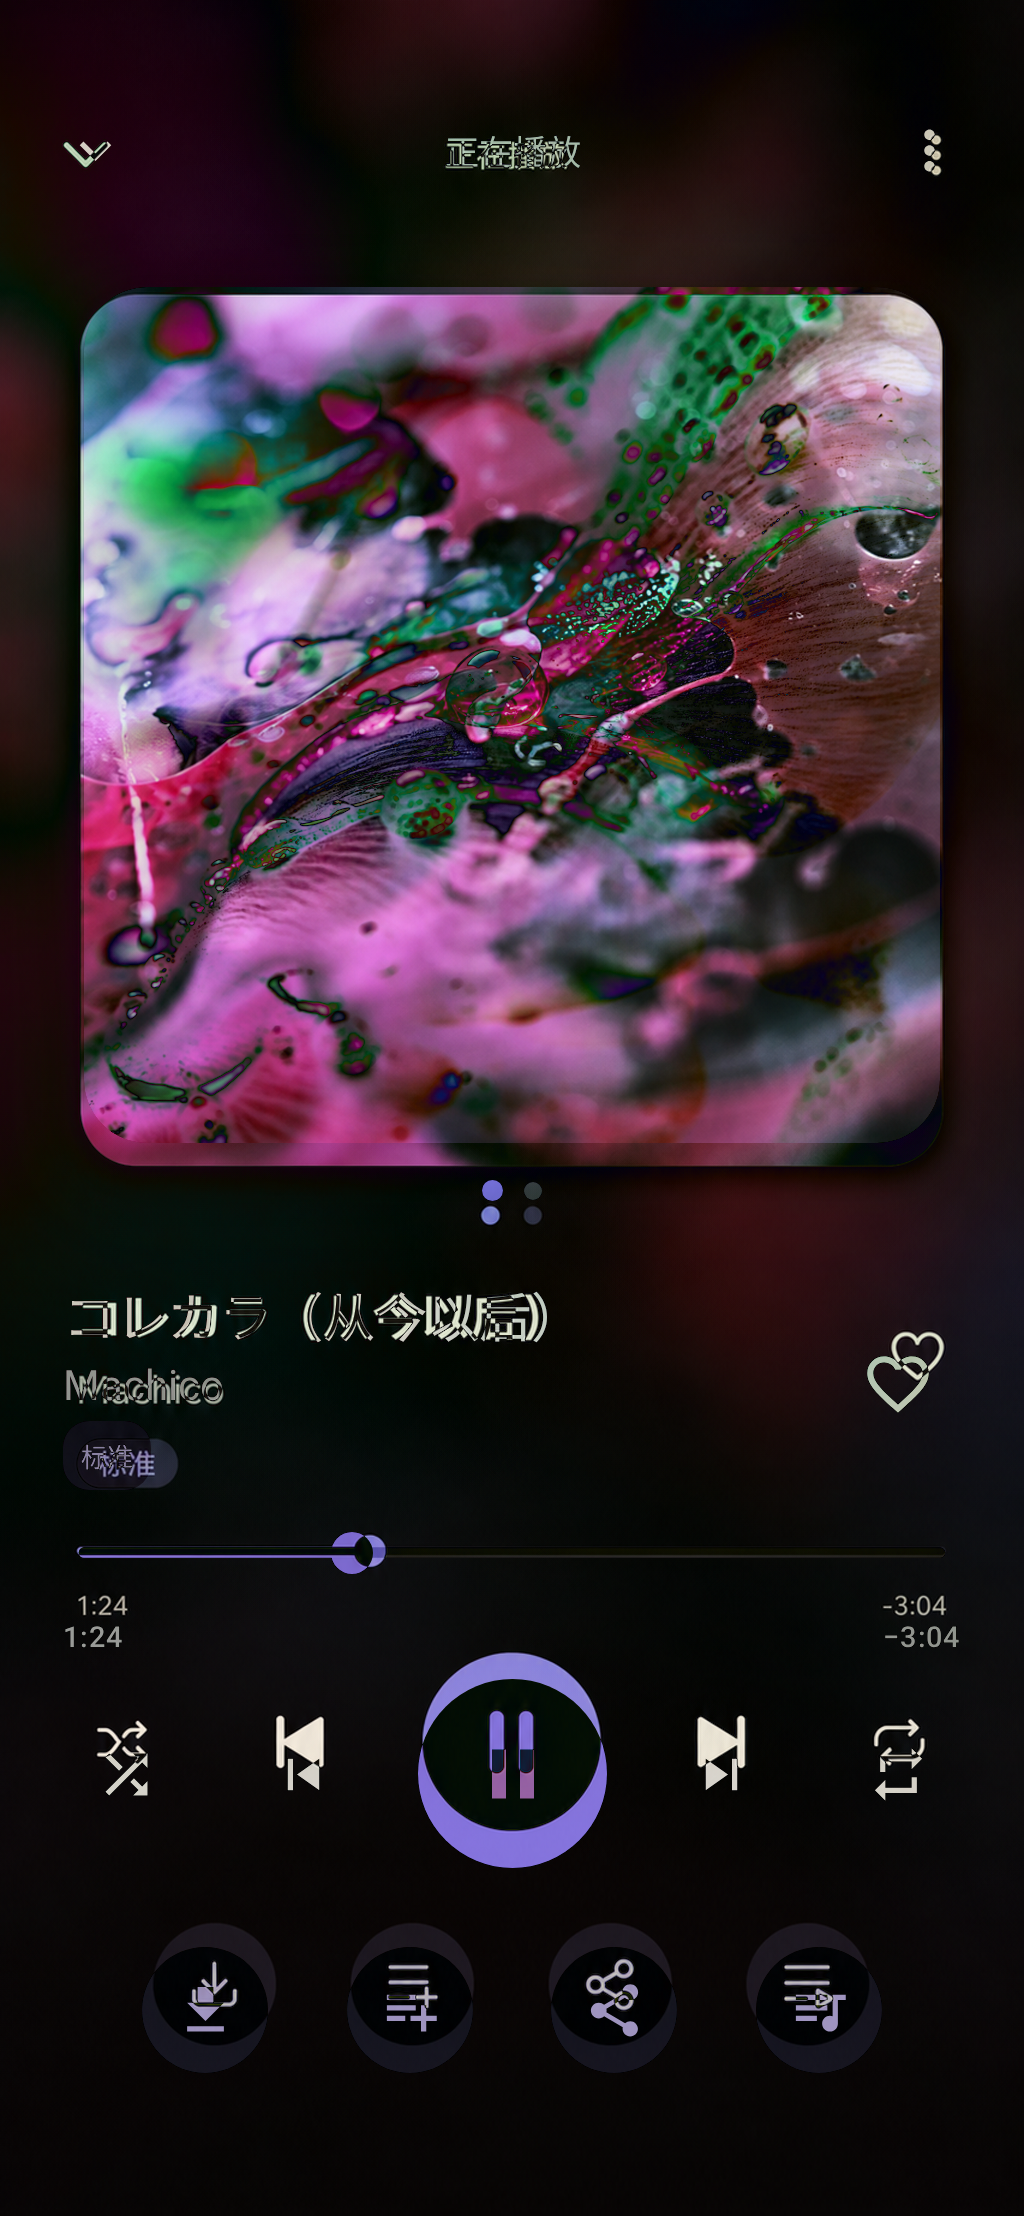
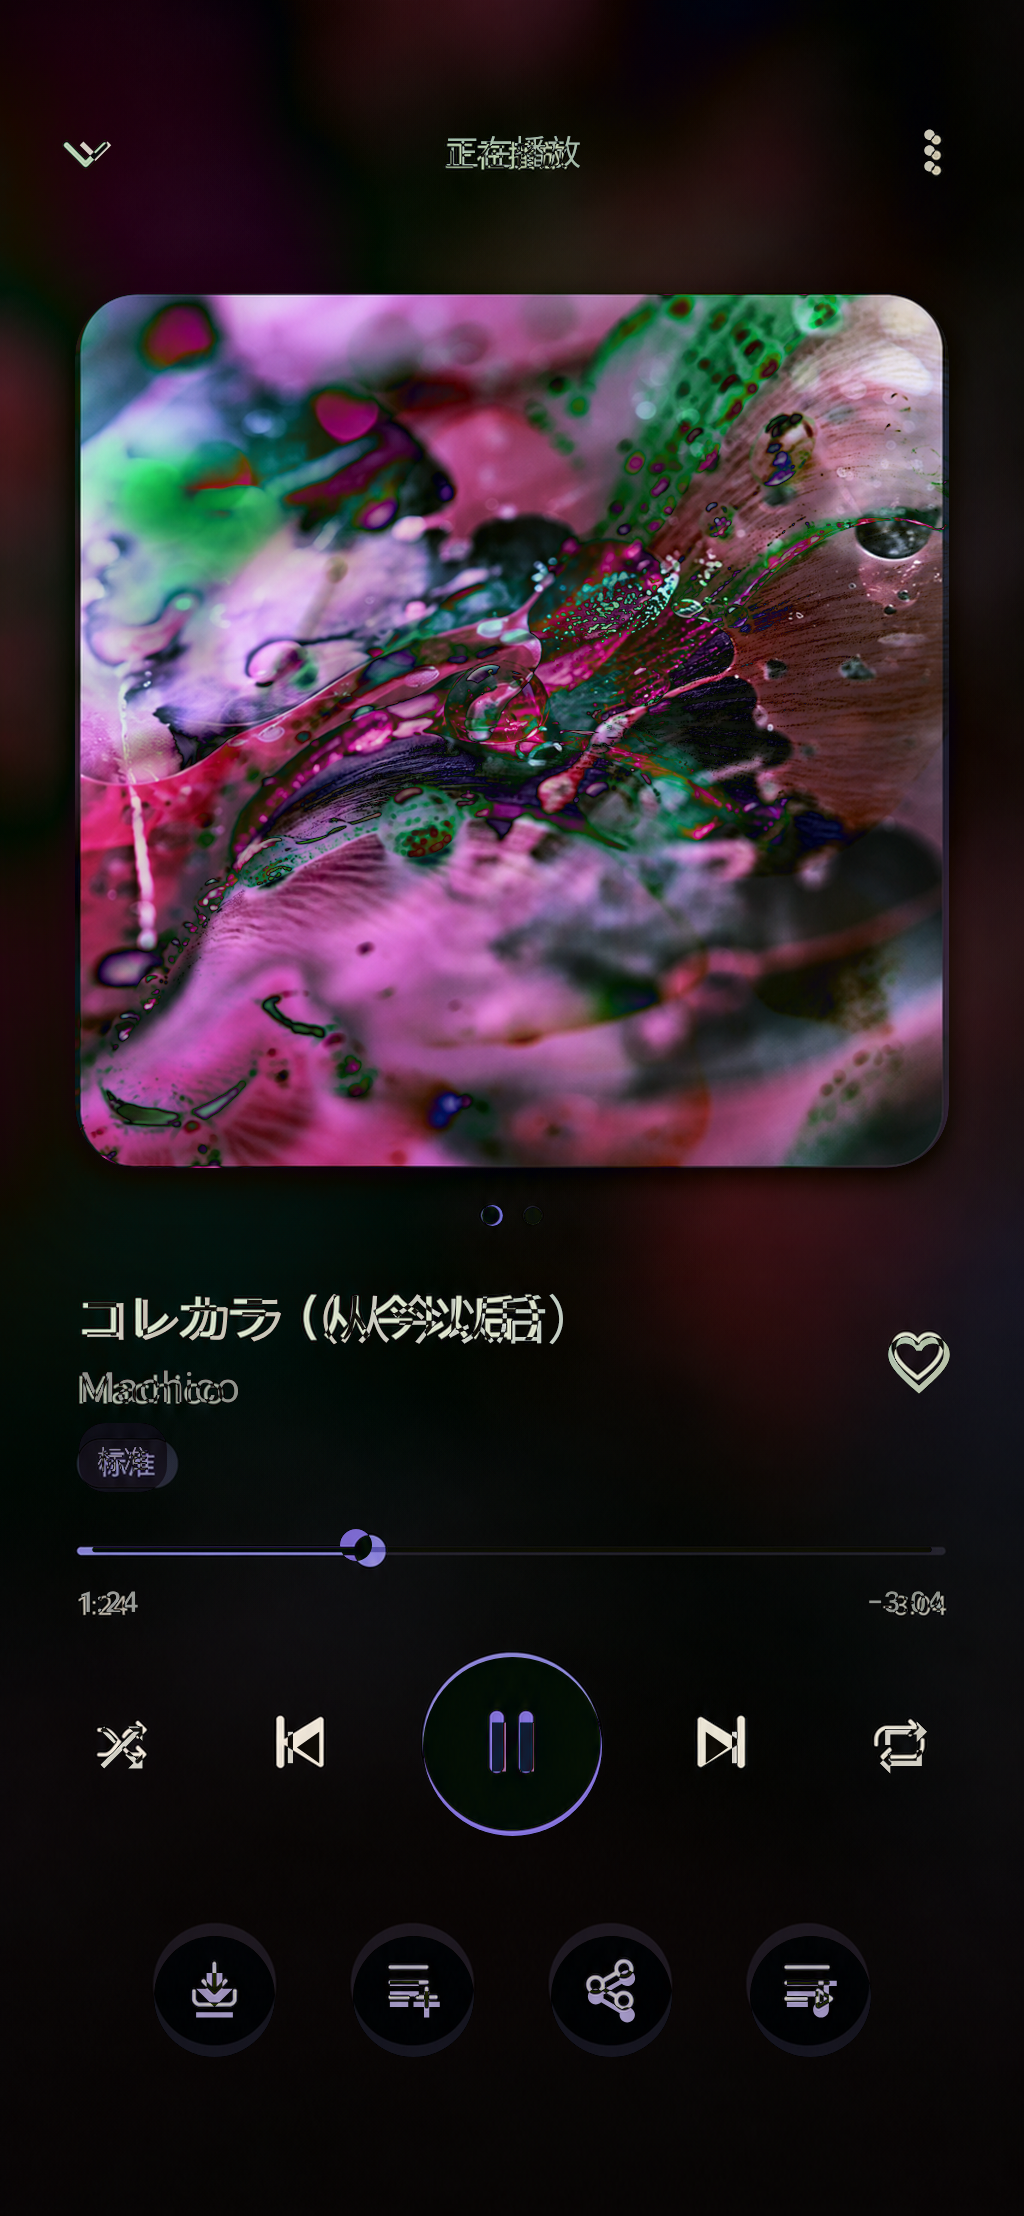
fix(player): align cover page with confirmed design

diff --git a/feature/player/src/main/kotlin/cn/james/music/feature/player/PlayerScreen.kt b/feature/player/src/main/kotlin/cn/james/music/feature/player/PlayerScreen.kt
@@ -15,6 +15,7 @@ import androidx.compose.foundation.layout.fillMaxSize
 import androidx.compose.foundation.layout.fillMaxWidth
 import androidx.compose.foundation.layout.height
 import androidx.compose.foundation.layout.navigationBars
+import androidx.compose.foundation.layout.offset
 import androidx.compose.foundation.layout.padding
 import androidx.compose.foundation.layout.size
 import androidx.compose.foundation.layout.statusBars
@@ -303,10 +304,10 @@ private fun PlayerCoverPage(
     artworkContent: (@Composable (PlaybackItem) -> Unit)?,
 ) {
     Column(modifier = Modifier.fillMaxSize().verticalScroll(rememberScrollState())) {
-        Spacer(Modifier.height(20.dp))
+        Spacer(Modifier.height(23.dp))
         PlayerArtwork(item = item, artworkContent = artworkContent, modifier = Modifier.fillMaxWidth())
         PlayerPageIndicator(activePage = activePage)
-        Spacer(Modifier.height(15.dp))
+        Spacer(Modifier.height(6.dp))
         PlayerControls(
             state = state,
             progress = progress,
@@ -665,7 +666,7 @@ private fun PlayerArtwork(
             null -> null
         }
     BoxWithConstraints(
-        modifier = modifier.padding(horizontal = MoeKoeTheme.spacing.extraLarge),
+        modifier = modifier.padding(horizontal = 28.5.dp),
         contentAlignment = Alignment.TopCenter,
     ) {
         val artworkSize = maxWidth.coerceAtMost(333.dp)
@@ -717,9 +718,12 @@ private fun PlayerControls(
         modifier =
             Modifier
                 .fillMaxWidth()
-                .padding(horizontal = if (compactLayout) 26.dp else MoeKoeTheme.spacing.large),
+                .padding(horizontal = if (compactLayout) 26.dp else 22.dp),
     ) {
-        Row(verticalAlignment = Alignment.CenterVertically) {
+        Row(
+            modifier = Modifier.padding(horizontal = if (compactLayout) 0.dp else 8.dp),
+            verticalAlignment = Alignment.CenterVertically,
+        ) {
             Column(modifier = Modifier.weight(1f)) {
                 Text(
                     text = item.title,
@@ -739,7 +743,13 @@ private fun PlayerControls(
                 )
                 PlayerQualityBadge(compact = compactLayout)
             }
-            IconButton(onClick = onFavorite, modifier = Modifier.size(MoeKoeTheme.dimensions.minimumTouchTarget)) {
+            IconButton(
+                onClick = onFavorite,
+                modifier =
+                    Modifier
+                        .size(MoeKoeTheme.dimensions.minimumTouchTarget)
+                        .then(if (compactLayout) Modifier else Modifier.offset(x = 14.dp, y = (-8).dp)),
+            ) {
                 Icon(
                     imageVector = Icons.Default.FavoriteBorder,
                     contentDescription = stringResource(R.string.player_favorite),
@@ -747,15 +757,17 @@ private fun PlayerControls(
                 )
             }
         }
-        PlayerProgress(
-            progress = progress,
-            itemId = item.id,
-            enabled = state.controlsEnabled,
-            onSeek = onSeek,
-            compact = compactLayout,
-        )
+        Column(modifier = Modifier.padding(horizontal = if (compactLayout) 0.dp else 8.dp)) {
+            PlayerProgress(
+                progress = progress,
+                itemId = item.id,
+                enabled = state.controlsEnabled,
+                onSeek = onSeek,
+                compact = compactLayout,
+            )
+        }
         Row(
-            modifier = Modifier.fillMaxWidth().height(if (compactLayout) 76.dp else 88.dp),
+            modifier = Modifier.fillMaxWidth().height(if (compactLayout) 76.dp else 82.dp),
             horizontalArrangement = Arrangement.SpaceBetween,
             verticalAlignment = Alignment.CenterVertically,
         ) {
@@ -764,7 +776,7 @@ private fun PlayerControls(
             Surface(
                 onClick = onTogglePlayback,
                 enabled = state.controlsEnabled,
-                modifier = Modifier.size(if (compactLayout) 68.dp else 72.dp),
+                modifier = Modifier.size(68.dp),
                 shape = CircleShape,
                 color =
                     if (state.controlsEnabled) {
@@ -834,7 +846,7 @@ private fun PlayerSecondaryActions(
     onOpenQueue: () -> Unit,
 ) {
     Row(
-        modifier = Modifier.fillMaxWidth().padding(top = 8.dp).height(76.dp),
+        modifier = Modifier.fillMaxWidth().padding(horizontal = 8.dp).padding(top = 18.dp).height(72.dp),
         horizontalArrangement = Arrangement.SpaceEvenly,
         verticalAlignment = Alignment.CenterVertically,
     ) {
@@ -851,15 +863,19 @@ private fun PlayerSecondaryAction(
     label: Int,
     onClick: () -> Unit,
 ) {
-    Surface(
-        onClick = onClick,
-        modifier = Modifier.size(48.dp),
-        shape = CircleShape,
-        color = PlayerSecondaryContainer,
-        contentColor = PlayerSecondaryContent,
+    Box(
+        modifier = Modifier.size(48.dp).clickable(onClick = onClick),
+        contentAlignment = Alignment.Center,
     ) {
-        Box(contentAlignment = Alignment.Center) {
-            Icon(icon, stringResource(label), modifier = Modifier.size(24.dp))
+        Surface(
+            modifier = Modifier.size(46.dp),
+            shape = CircleShape,
+            color = PlayerSecondaryContainer,
+            contentColor = PlayerSecondaryContent,
+        ) {
+            Box(contentAlignment = Alignment.Center) {
+                Icon(icon, stringResource(label), modifier = Modifier.size(24.dp))
+            }
         }
     }
 }
@@ -888,11 +904,15 @@ private fun PlayerProgress(
         },
         valueRange = 0f..duration.coerceAtLeast(1).toFloat(),
         enabled = enabled && duration > 0,
-        modifier = Modifier.fillMaxWidth().then(if (compact) Modifier.height(34.dp) else Modifier),
+        modifier =
+            Modifier
+                .fillMaxWidth()
+                .height(if (compact) 34.dp else 40.dp)
+                .then(if (compact) Modifier else Modifier.offset(y = 2.dp)),
         thumb = {
             Box(
                 Modifier
-                    .size(16.dp)
+                    .size(if (compact) 16.dp else 12.dp)
                     .background(
                         color = if (enabled && duration > 0) activeColor else activeColor.copy(alpha = 0.38f),
                         shape = CircleShape,
@@ -904,10 +924,14 @@ private fun PlayerProgress(
                 progress = sliderState.value / duration.coerceAtLeast(1).toFloat(),
                 activeColor = if (enabled && duration > 0) activeColor else activeColor.copy(alpha = 0.38f),
                 inactiveColor = if (enabled && duration > 0) inactiveColor else inactiveColor.copy(alpha = 0.38f),
+                compact = compact,
             )
         },
     )
-    Row(modifier = Modifier.fillMaxWidth(), horizontalArrangement = Arrangement.SpaceBetween) {
+    Row(
+        modifier = Modifier.fillMaxWidth().then(if (compact) Modifier else Modifier.offset(y = (-6).dp)),
+        horizontalArrangement = Arrangement.SpaceBetween,
+    ) {
         PlayerTime(shownPosition, valid = duration > 0)
         PlayerTime((duration - shownPosition).coerceAtLeast(0), valid = duration > 0, remaining = true)
     }
@@ -918,10 +942,12 @@ private fun PlayerProgressTrack(
     progress: Float,
     activeColor: Color,
     inactiveColor: Color,
+    compact: Boolean,
 ) {
-    Canvas(Modifier.fillMaxWidth().height(4.dp)) {
+    val trackHeight = if (compact) 4.dp else 2.dp
+    Canvas(Modifier.fillMaxWidth().height(trackHeight)) {
         val centerY = size.height / 2f
-        val strokeWidth = 4.dp.toPx()
+        val strokeWidth = trackHeight.toPx()
         drawLine(
             color = inactiveColor,
             start = Offset(0f, centerY),

diff --git a/docs/plans/04-content-and-player-ui.md b/docs/plans/04-content-and-player-ui.md
@@ -35,7 +35,7 @@
 - 通用 MiniPlayer 已按 `17-music-content-components.png` 与 `01-home-material3-v2.png` 的页面壳层完成同视口视觉校准：保留连续底部 Surface，校正封面、紧凑字级、质量徽标、上一首、主色圆形播放暂停、下一首、队列、起止时间与独立进度条；上一首/下一首继续接入既有播放命令，本次不改 `:playback` 状态所有权。浅色、深色、`1.5×` 聚焦截图与设计并排/叠加/差异证据见 [`mini-player-2026-08-08.md`](../design/evidence/mini-player-2026-08-08.md)，四项操作语义区域继续保持不小于 `48dp`。
 - Search/LocalMusic 截图验证、相关 JVM 单测、Debug 构建与 `MainActivityTest` 真机回归 6/6 通过；真机手动搜索并播放在线歌曲后，MiniPlayer、恢复为暂停状态和队列 Bottom Sheet 均已检查。
 - 已在 `06` 至 `08` 号确认设计图之后建立 [`player-flow`](../design/prototypes/player-flow/README.md) 本地交互原型，并验证封面/歌词双页、点击歌词定位、暂无歌词、纵向退出、队列覆盖层和“先关队列、再退出播放器”的返回优先级；原型不定义 Compose 视觉或协议行为。
-- 独立 `:feature:player` 全屏封面目的地已按 [`PLAYER_LAYOUT_SPEC.md`](../design/PLAYER_LAYOUT_SPEC.md) 和 `06-player-cover.png` 完成视觉复刻：补齐更多、分页点、品质、收藏、下载、加歌单、分享及独立队列动作，封面改为真实本地预览位图，播放/暂停、进度、上下首、模式和队列继续复用既有接线；其余次级动作只保留视觉语义。9 组截图、设计对照证据及 ELE-AL00 / API 29 App instrumentation 24/24 通过。
+- 独立 `:feature:player` 全屏封面目的地已按 [`PLAYER_LAYOUT_SPEC.md`](../design/PLAYER_LAYOUT_SPEC.md) 和 `06-player-cover.png` 完成第二轮同画布复核：纠正旧证据遗漏的封面锚点、歌曲信息边距、收藏位置、进度细节、核心控制节奏和次级动作密度；播放/暂停、进度、上下首、模式和队列继续复用既有接线，其余次级动作只保留视觉语义，不在本 UI 切片接业务。
 - 播放页仅消费 `:app` 映射的不可变 UI 状态和事件，不直接依赖 `:playback`；高频进度由独立 `State` 交给进度子组合读取。标准视口不依赖尺寸分档，只有内容实际溢出时允许纵向滚动。
 - 全屏封面已覆盖正常、暂停、缓冲、控制器未连接、封面失败、未知时长、空播放项及 `1.5×`/`2.0×` 字体截图基准；真机导航、手势、队列返回优先级和播放命令仍待用户手动验收。
 - 歌词协议、KRC 解包、成熟解析库、成功缓存、取消和失败恢复已完成独立 [`12-kugou-lyrics`](../reference-audits/12-kugou-lyrics.md) 审计；`07-player-lyrics.png` 与 `23a` 至 `23h` 加载、空、离线、错误和大字体状态均已确认，并已形成独立 [`PLAYER_LYRICS_LAYOUT_SPEC.md`](../design/PLAYER_LYRICS_LAYOUT_SPEC.md) 视觉合同。歌词 Compose 先按全部确认稿完成纯 UI 和截图，再单独接入歌词状态与交互。

diff --git a/docs/design/PLAYER_LAYOUT_SPEC.md b/docs/design/PLAYER_LAYOUT_SPEC.md
@@ -29,6 +29,14 @@ runtimeSize = designSize × s
 - Medium/Expanded 没有确认稿时使用最大 `480dp` 的居中单列；封面不无限放大。
 - 可见图标按确认稿尺寸绘制，点击语义区域至少 `48 × 48dp`。
 
+### Compact 基准尺寸
+
+- `390 × 844dp / 1.0×` 下，顶部安全区至少 `25dp`，Toolbar 为 `64dp`；封面前留白 `23dp`，封面视觉边长 `333dp`、水平边距 `28.5dp`。
+- 分页指示区高 `36dp`，指示区至歌曲信息留白 `6dp`。歌曲信息与进度左右视觉锚点为 `30dp`；核心控制行使用 `22dp` 外边距，以匹配确认稿更宽的五点节奏。
+- 非紧凑进度 Slider 高 `40dp`，轨道 `2dp`、拇指 `12dp`；时间标签只做 `-6dp` 视觉校正，不改变后续控件布局。
+- 核心控制行高 `82dp`，主播放按钮视觉直径 `68dp`。次级动作视觉直径 `46dp`，外层仍保留 `48dp` 点击语义，顶部间距 `18dp`、动作行高 `72dp`。
+- 收藏图标在歌曲信息行内做 `x +14dp / y -8dp` 的视觉校正；点击区域仍为 `48dp`，不得用缩小触控区换取对齐。
+
 ## 页面区域与所有权
 
 | 区域 | 固定视觉 | 行为与边界 |
@@ -54,6 +62,6 @@ runtimeSize = designSize × s
 
 1. 先以 `390 × 845dp`、Dark、`1.0×` 捕获页面截图，归一化到 `852 × 1846` 与确认稿并排、叠加检查。
 2. 固定锚点至少覆盖：顶部三节点、封面边界与圆角、分页点、标题/歌手/徽标/收藏、进度轨道与时间、五项核心控制、四项次级动作。
-3. 固定区域边界或中心偏差不得超过 `2` 个设计单位，相邻区域累计纵向漂移不得超过 `3` 个设计单位；字体栅格、真实封面内容和 Material 图标笔画只可作为遮罩差异。
+3. 固定区域边界或中心偏差不得超过 `2` 个设计单位，相邻区域累计纵向漂移不得超过 `3` 个设计单位；字体栅格、不同歌曲的真实封面内容和 Material 图标笔画只可作为遮罩差异。仅有截图存在不代表通过，必须在同画布并排和叠加中逐项确认这些锚点。
 4. 设计符合度通过后才更新 Compose 回归基线。必须覆盖播放、暂停、缓冲、连接中、未知时长、封面失败、空播放项、`1.5×` 和 `2.0×`。
 5. 行为验证至少覆盖收起、播放暂停、seek、上下首、模式切换、队列打开与返回优先级；未接入次级动作只验证语义和布局，不验证假结果。

diff --git a/docs/design/evidence/player-cover-2026-08-08.md b/docs/design/evidence/player-cover-2026-08-08.md
@@ -12,8 +12,14 @@
 
 ## 结论
 
-- 顶部收起/标题/更多、方形封面、分页点、歌曲信息/品质/收藏、进度、五项核心控制和四项次级动作均已恢复，并与确认稿同输入复核。
+- 第二轮同画布审查否决了旧结论：旧实现虽然元素齐全，但封面锚点、歌曲信息内边距、收藏位置、进度细节、五项核心控制节奏和次级动作密度仍有肉眼可见偏差，不能以“截图已存在”视为通过。
+- 本轮只修正 Compose 视觉：封面恢复 `333dp` 基准边长和确认稿纵向锚点；歌曲信息/进度恢复 `30dp` 视觉边距；核心控制改为更宽的五点节奏，主按钮收敛至 `68dp`；进度轨道、拇指、时间标签和 `46dp` 次级动作均按确认稿重新校准。
+- 顶部收起/标题/更多、方形封面、分页点、歌曲信息/品质/收藏、进度、五项核心控制和四项次级动作已重新与确认稿同画布并排、叠加和差异复核。不同真实封面内容、静态深色回退色板和 Material 图标笔画不作为结构偏差。
 - 播放、暂停、缓冲、连接中、未知时长、封面失败、空播放项、`1.5×`、`2.0×` 共 9 组截图基线通过；大字体保持标题、进度和核心控制可见，次级动作可通过页面滚动到达。
-- 指定 ELE-AL00 / API 29 的 App instrumentation 回归 24/24 通过；未创建或启动模拟器。
 - 下载、加入歌单、分享、收藏和更多当前是确认稿要求的视觉语义，不伪装业务已完成；队列、播放暂停、上下首、seek 与模式继续使用既有端口。
-- 保留的 P3 差异为原创封面内容、静态深色调色回退与 Material 图标笔画；槽位、构图、裁切、尺寸和色彩语义一致。
+
+## 验证
+
+- 本轮只修改 UI 几何与视觉，不新增或改变播放业务行为。
+- `spotlessCheck`、`:feature:player:testDebugUnitTest`、`:feature:player:validateDebugScreenshotTest`、`:feature:player:lintDebug`、`:app:assembleDebug`、`:app:compileDebugAndroidTestKotlin` 均通过。
+- 指定 ELE-AL00 / API 29 的 App instrumentation 25/25 通过；未创建或启动模拟器。
